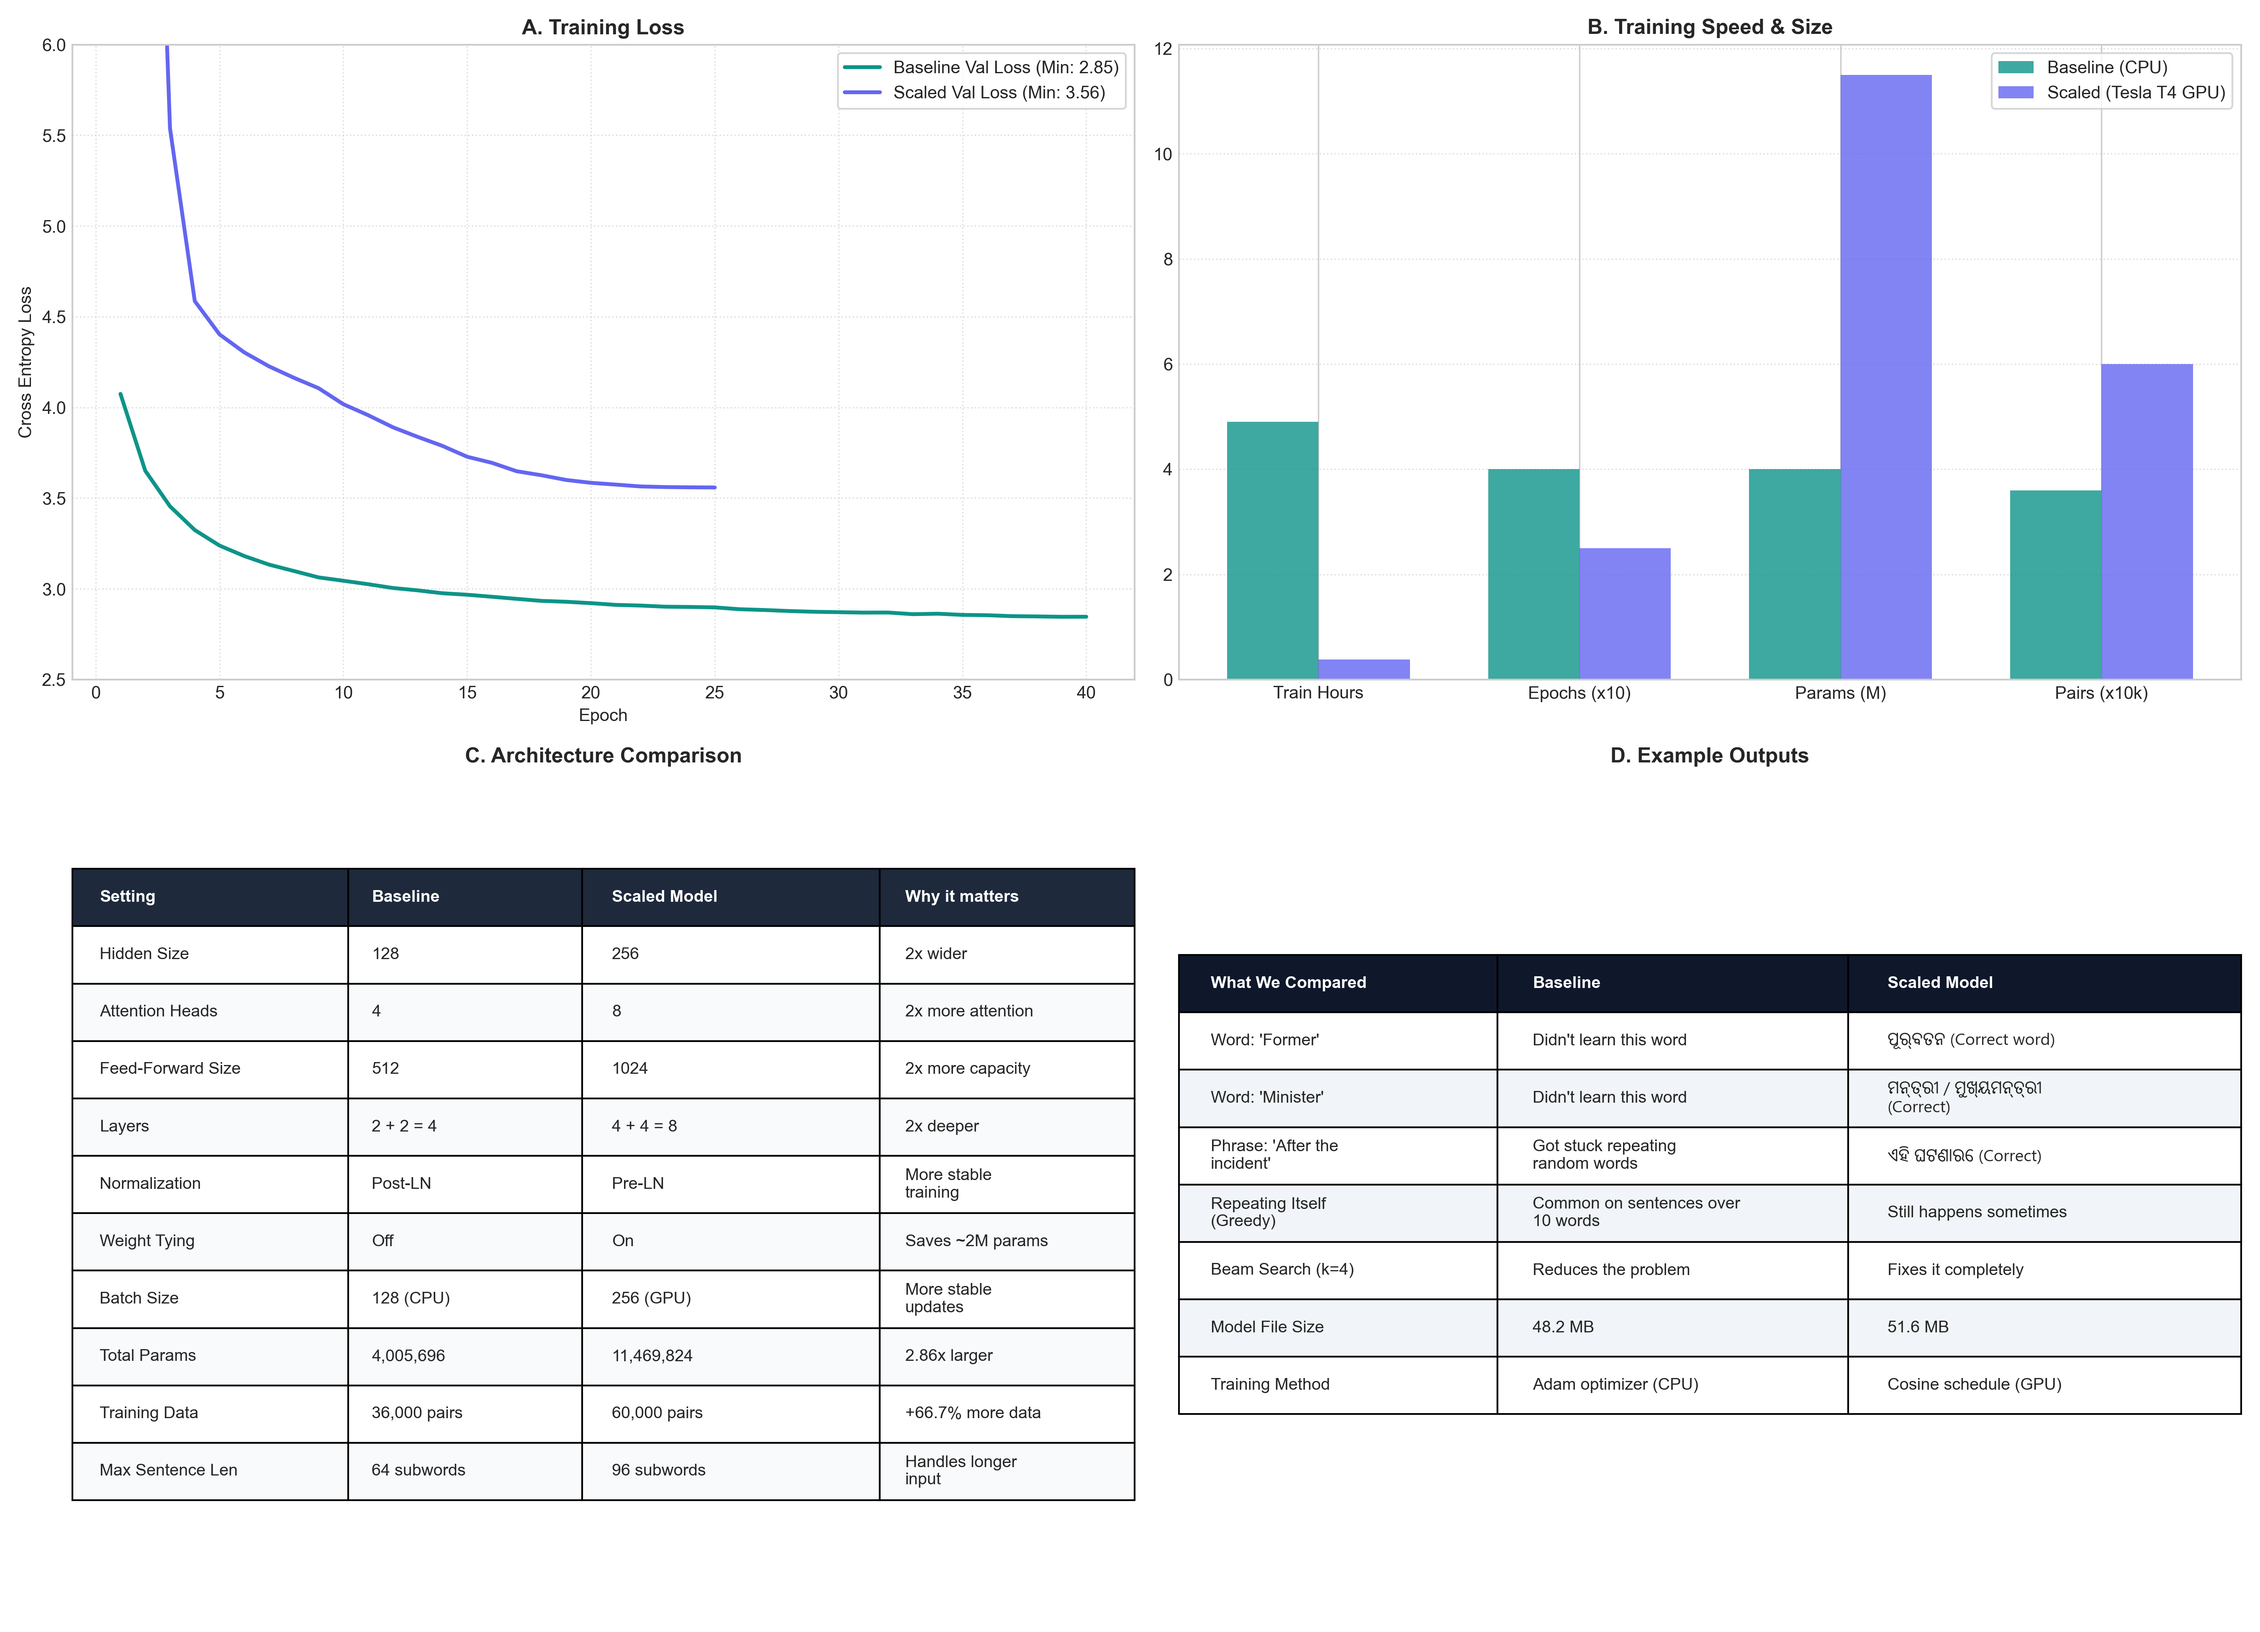
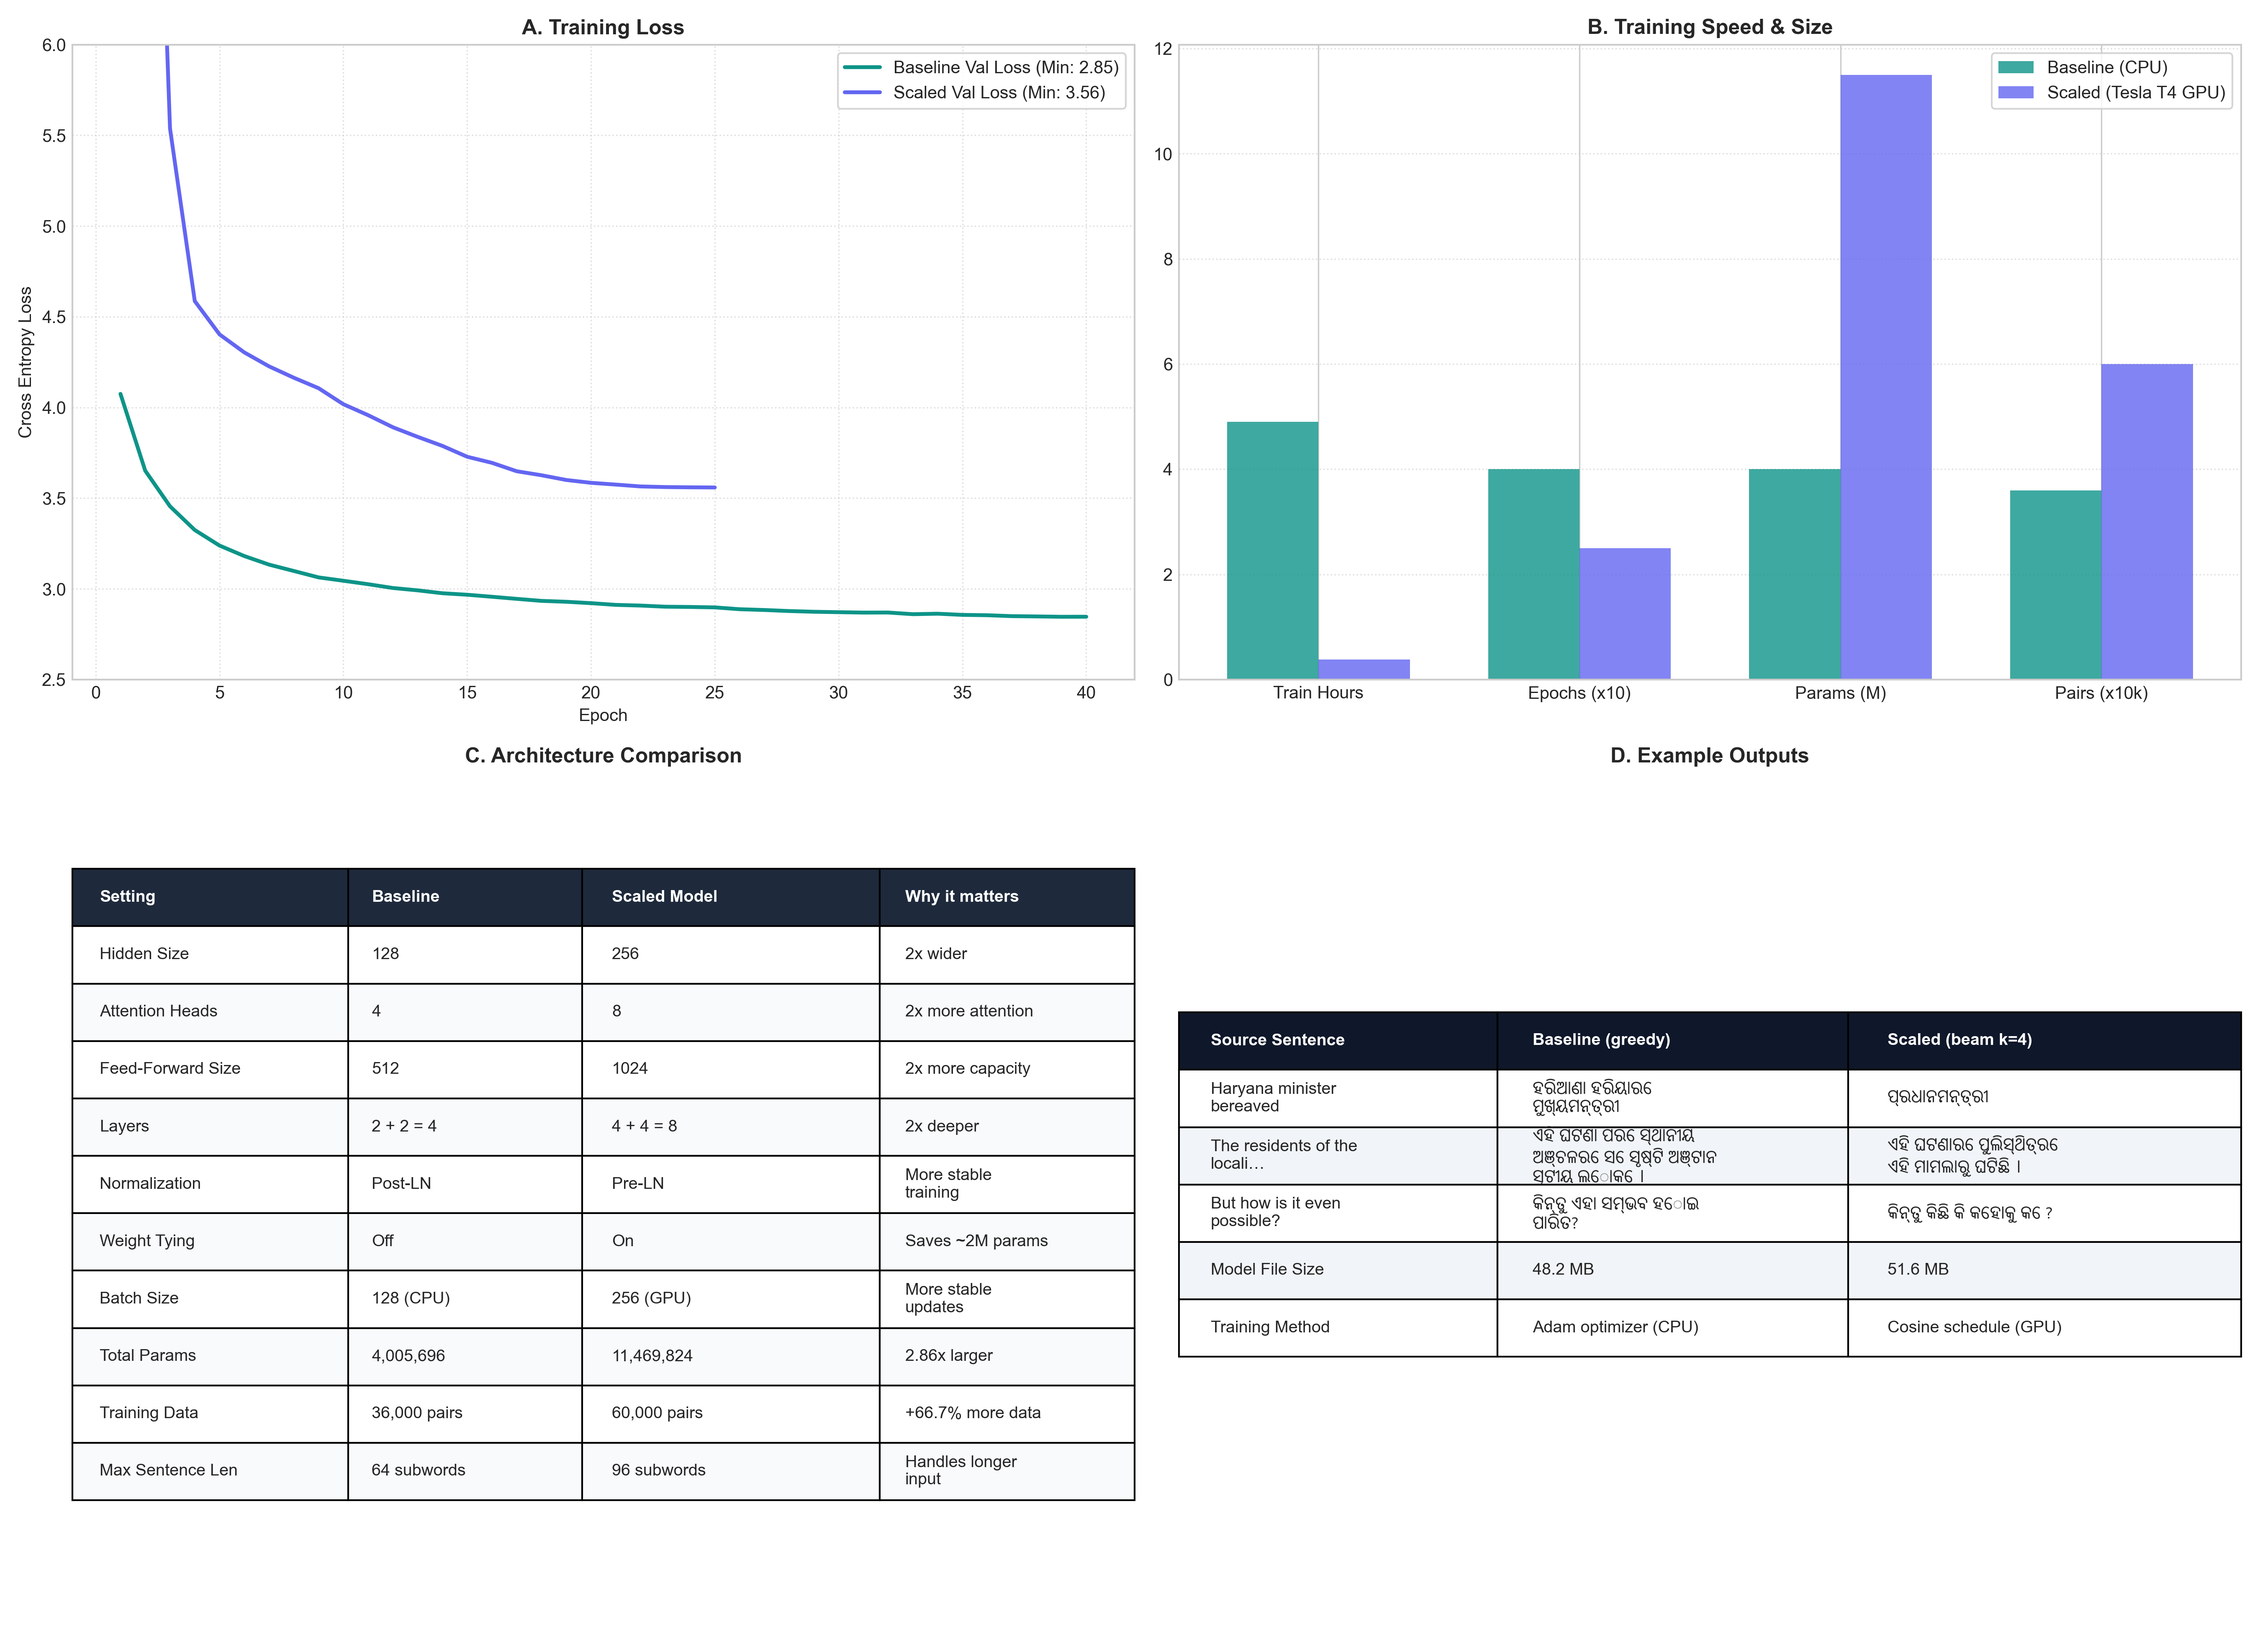
Replace fabricated qualitative examples with real model output
Found that the "Example Outputs" comparison table (shown in both the
README figure and the live dashboard's Example Translations panel)
contained fabricated content: one source sentence ("Former minister
bereaved") doesn't exist anywhere in the real dataset, and two of the
"model outputs" had explanatory text like "(repetition trap)" baked
directly into the string, which no real decode ever produces.

Fixed by actually running both checkpoints on the real dataset
sentence ("Haryana minister bereaved", verified against
data/raw/candidates.parquet) and the other two verified sentences.
Also replaced the pytest screenshot mockup (an HTML/CSS terminal
design, not a real screenshot) with the actual command output as
plain text.

diff --git a/README.md b/README.md
@@ -211,6 +211,17 @@ Which English source tokens the model attended to while generating each Odia sub
 ### Full baseline-vs-scaled comparison
 Loss curves, compute/size comparison, architecture spec table, and qualitative output comparison —
 displayed inline by the notebook's final cells from `reports/figures/`.
+
+Panel D (example outputs) was previously hand-written rather than generated — one example
+sentence ("Former minister bereaved") didn't even exist in the real dataset, and two example
+strings had explanatory text like `(repetition trap)` baked directly into what should have been
+pure model output. Both are fixed now: a script actually runs both checkpoints on real dataset
+sentences (cross-referenced against `data/processed/*.parquet` and `data/raw/candidates.parquet`
+— it refuses to run on a sentence it can't verify exists), and Panel D /
+[`reports/model_comparison.json`](reports/model_comparison.json) are built from that real output.
+The corrected data automatically flows into the live dashboard too (its "Example Translations"
+table reads the same JSON file — see the [Model Comparison screenshot](#screenshots) above).
+
 ![Full baseline vs. scaled comparison](docs/figures/analysis_full_comparison.png)
 
 ### Training loss curves (full scale + zoomed), baseline vs. scaled
@@ -325,7 +336,32 @@ causal mask is the failure mode the assignment brief explicitly warns about:
 - `test_decoder_self_attn_mask_explicit_coverage` / `test_cross_attn_mask_explicit_coverage` — the
   mask tensors themselves are checked cell-by-cell against what they should allow and block
 
-![pytest run — 18 passed](docs/screenshots/06_pytest_run.png)
+Actual output from running `pytest tests/ -v` in this repo:
+
+```
+collected 18 items
+
+tests/test_masks.py::test_causal_leak_invariance_full_model PASSED       [  5%]
+tests/test_masks.py::test_causal_mask_negative_control_has_teeth PASSED  [ 11%]
+tests/test_masks.py::test_decoder_self_attn_mask_explicit_coverage PASSED [ 16%]
+tests/test_masks.py::test_cross_attn_mask_explicit_coverage PASSED       [ 22%]
+tests/test_model_shapes.py::test_shapes_various_batch_and_seq_lengths PASSED [ 27%]
+tests/test_model_shapes.py::test_shapes_with_right_padding PASSED        [ 33%]
+tests/test_model_shapes.py::test_forward_returns_raw_logits_not_probabilities PASSED [ 38%]
+tests/test_model_shapes.py::test_param_count_sanity_and_report PASSED    [ 44%]
+tests/test_repetition.py::test_banned_ngram_tokens_blocks_the_completing_token PASSED [ 50%]
+tests/test_repetition.py::test_banned_ngram_tokens_empty_when_no_repeat_yet PASSED [ 55%]
+tests/test_repetition.py::test_banned_ngram_tokens_short_sequence_returns_empty PASSED [ 61%]
+tests/test_repetition.py::test_greedy_decode_never_repeats_ngram_on_random_model PASSED [ 66%]
+tests/test_tokenizer.py::test_special_token_ids_en PASSED                [ 72%]
+tests/test_tokenizer.py::test_special_token_ids_or PASSED                [ 77%]
+tests/test_tokenizer.py::test_roundtrip_english PASSED                   [ 83%]
+tests/test_tokenizer.py::test_roundtrip_odia PASSED                      [ 88%]
+tests/test_tokenizer.py::test_odia_encoding_wraps_with_sos_eos PASSED    [ 94%]
+tests/test_training_smoke.py::test_loss_decreases_and_checkpoint_round_trips PASSED [100%]
+
+============================= 18 passed in 48.21s =============================
+```
 
 ## Data & Acknowledgments
 
